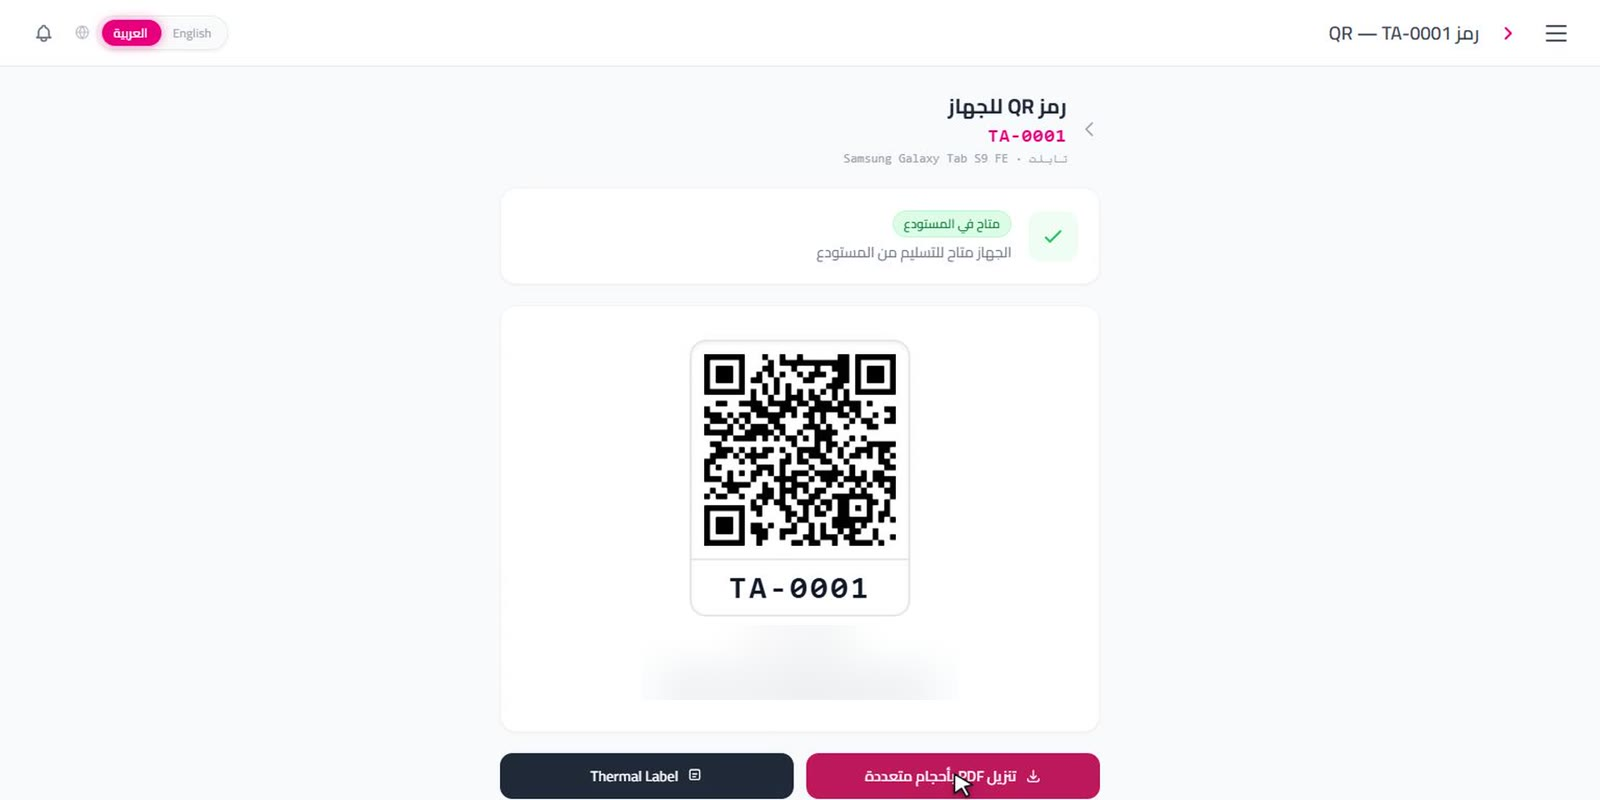
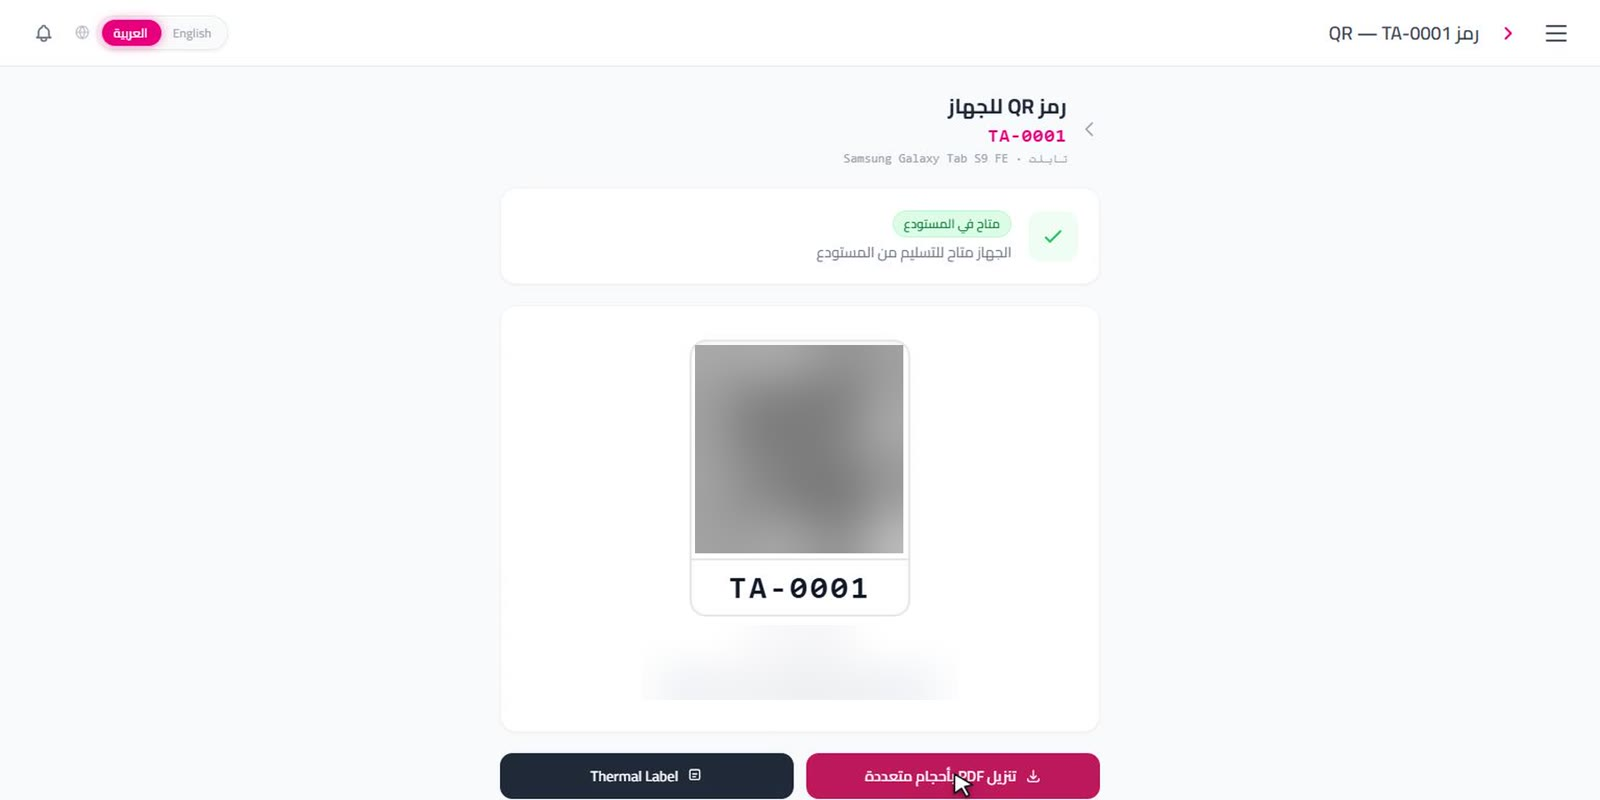
Harden AMS card: drop version/infra details, blur QR code
- Remove the PHP version from the tech tags and stack table
- Reduce the deployment row to "Linux VPS with SSL"
- Blur the scannable QR code in the asset label screenshot

Changed region(s): [[0.4375, 0.4062, 0.5625, 0.7188]]

diff --git a/script.js b/script.js
@@ -538,16 +538,16 @@ document.addEventListener('DOMContentLoaded', function() {
 
                 <h3>Tech Stack</h3>
                 <table class="tech-table">
-                    <tr><th>Framework</th><td>Laravel 12 on PHP 8.2, with a clean architecture of service classes, Form Requests and Policies</td></tr>
+                    <tr><th>Framework</th><td>Laravel 12 (PHP), with a clean architecture of service classes, Form Requests and Policies</td></tr>
                     <tr><th>Database</th><td>MySQL 8 (InnoDB, utf8mb4) with 50+ versioned migrations</td></tr>
                     <tr><th>Frontend</th><td>Blade + Livewire 3, Alpine.js and Tailwind CSS, built with Vite; fully RTL</td></tr>
                     <tr><th>Auth &amp; RBAC</th><td>Laravel Breeze plus spatie/laravel-permission for roles and permissions</td></tr>
                     <tr><th>Documents</th><td>mPDF + ar-php for correctly shaped Arabic PDFs; signature_pad canvas signatures</td></tr>
                     <tr><th>Assets &amp; Data</th><td>simple-qrcode for QR tags, maatwebsite/excel for import/export</td></tr>
-                    <tr><th>Reliability</th><td>spatie/laravel-activitylog (audit trail), spatie/laravel-backup, queued jobs on Supervisor workers</td></tr>
+                    <tr><th>Reliability</th><td>spatie/laravel-activitylog (audit trail), spatie/laravel-backup, queued background jobs</td></tr>
                     <tr><th>Email</th><td>Resend for transactional notifications</td></tr>
                     <tr><th>Testing</th><td>Pest / PHPUnit feature tests, Laravel Pint for code style</td></tr>
-                    <tr><th>Deployment</th><td>Linux VPS: Ubuntu, Nginx, PHP-FPM, MySQL and Let's Encrypt SSL</td></tr>
+                    <tr><th>Deployment</th><td>Linux VPS with SSL</td></tr>
                 </table>
 
                 <h3>Outcome</h3>

diff --git a/index.html b/index.html
@@ -257,7 +257,7 @@
                     </ul>
                     <div class="project-tags">
                         <span class="tag">Laravel 12</span>
-                        <span class="tag">PHP 8.2</span>
+                        <span class="tag">PHP</span>
                         <span class="tag">MySQL 8</span>
                         <span class="tag">Livewire 3</span>
                         <span class="tag">Alpine.js</span>
